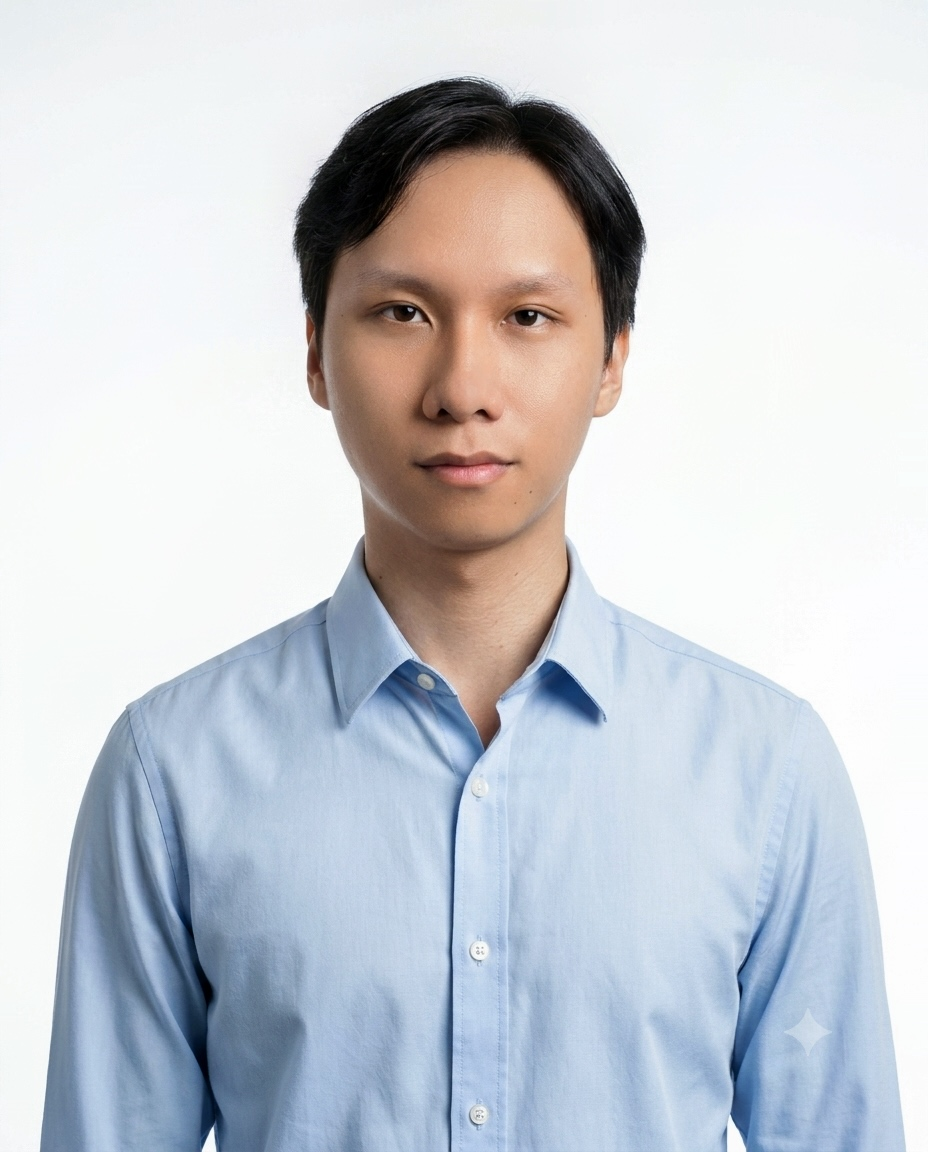
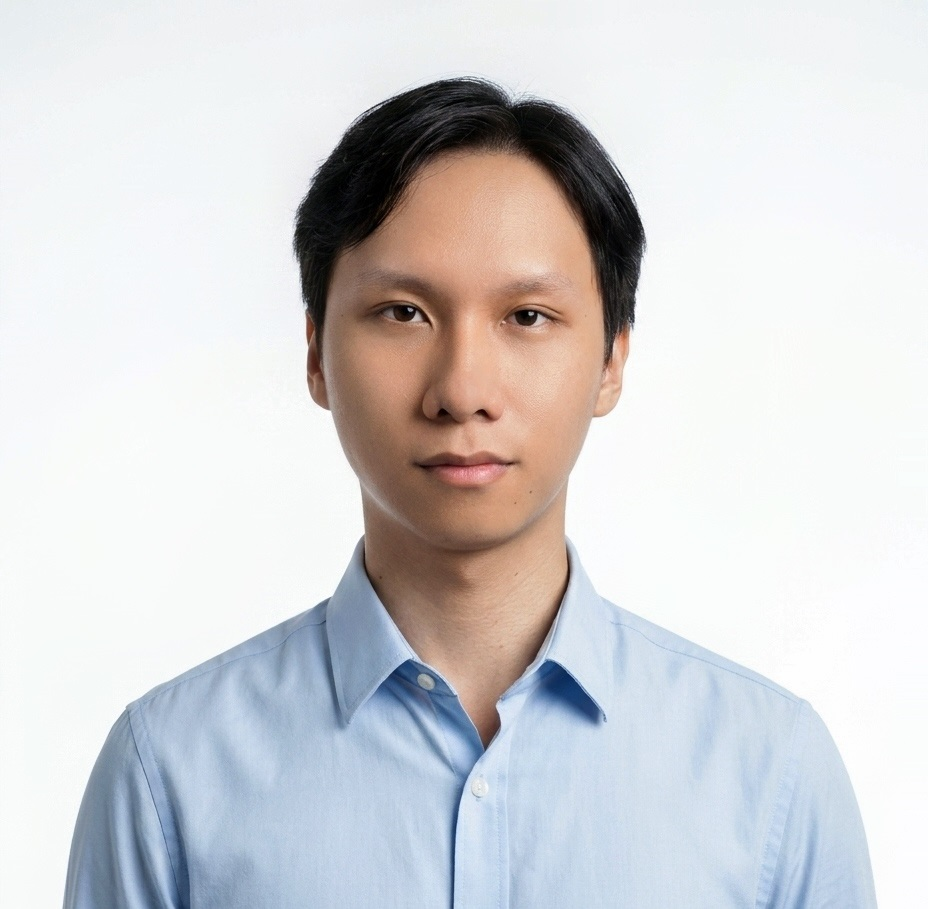
fix image

diff --git a/content/_index.md b/content/_index.md
@@ -27,7 +27,7 @@ chapter: false
 
 &emsp; **Internship Duration:** From 17/04/2026 to 10/07/2026
 
-![Profile picture](images/avatar.png)
+![Profile picture](/fcj-workshop/images/avatar.png)
 
 ### Report Content
 

diff --git a/content/_index.vi.md b/content/_index.vi.md
@@ -25,7 +25,7 @@ chapter: false
 
 &emsp; **Thời gian thực tập:** Từ ngày 17/04/2026 đến ngày 10/07/2026
 
-![Ảnh đại diện](images/avatar.png)
+![Profile picture](/fcj-workshop/images/avatar.png)
 
 ### Nội dung báo cáo
 